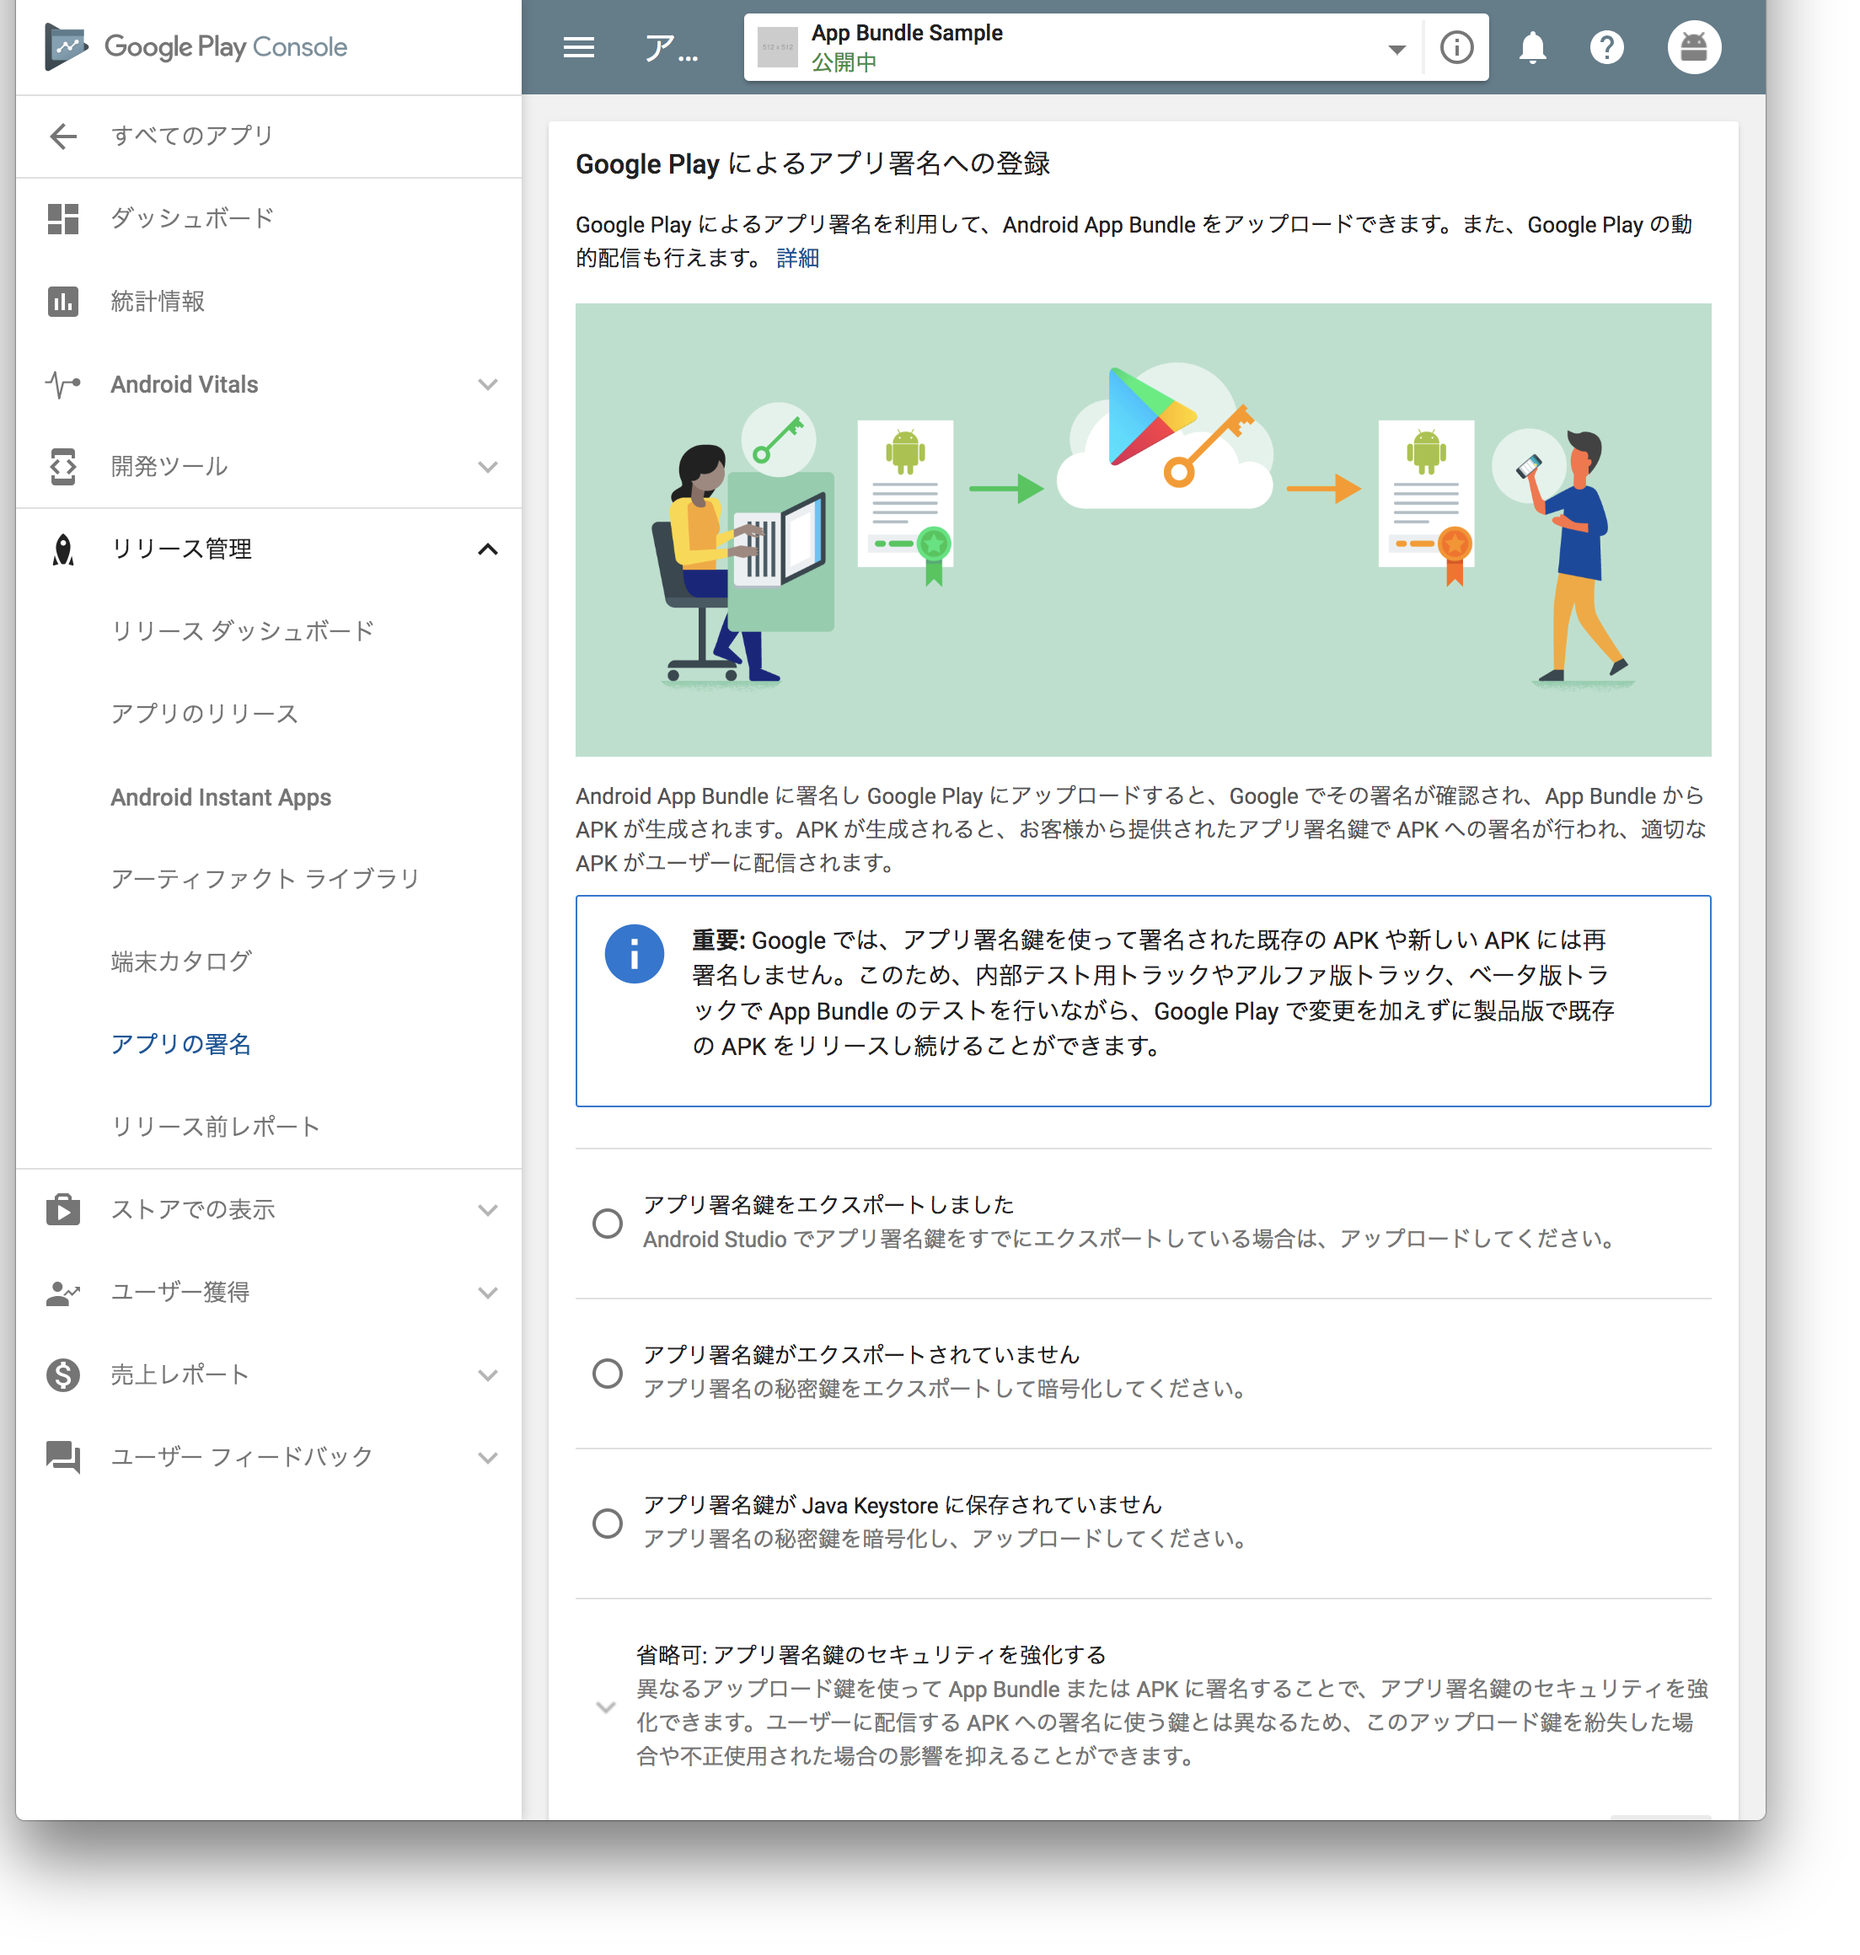
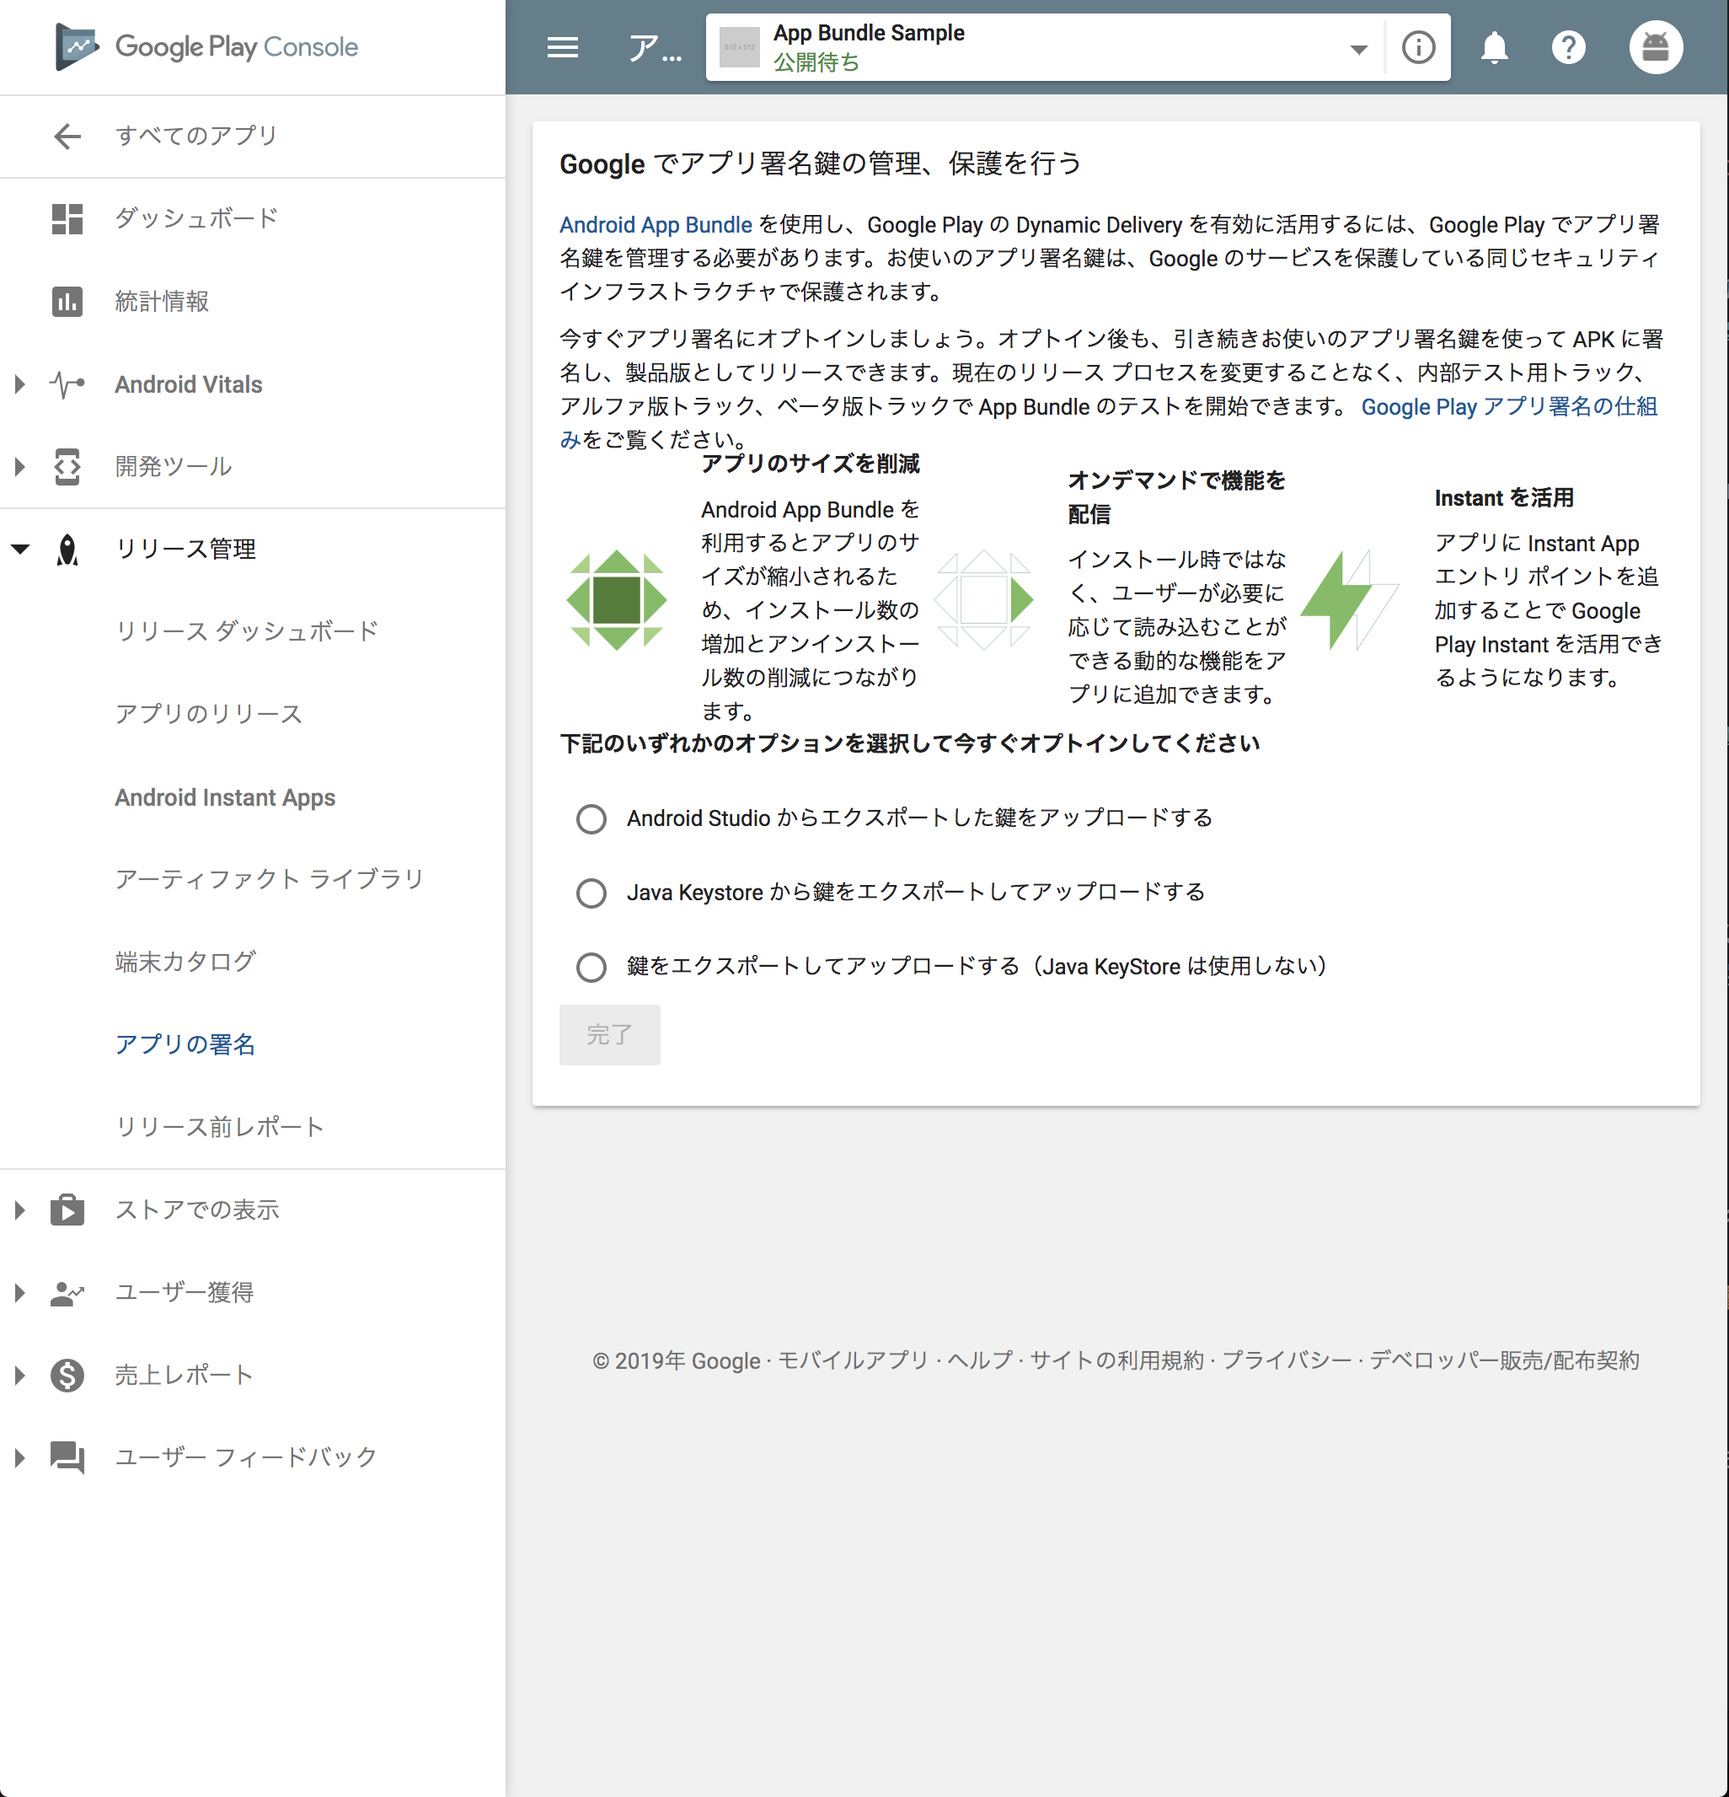
App Signing を有効にする手順を更新

diff --git a/App Bundle/upload_flow.md b/App Bundle/upload_flow.md
@@ -26,7 +26,8 @@ https://support.google.com/googleplay/android-developer/answer/7384423
 ![](./screenshot/new_application/flow5.png)
 1. 「Google Play アプリ署名」で「次へ」を選択し、Google App Signing を有効にする
 ![](./screenshot/new_application/flow6.png)
-  * Google Play App Signing が有効化されている他のアプリと同じ署名ファイル利用する場合は、「署名鍵の再利用」から選択することもできます
+  * Google Play App Signing が有効化されている他のアプリと同じ署名ファイルを選択したり、リリース用の署名ファイルを指定することができます。デフォルトだと Google Play が生成した署名ファイルが利用されます。
+  ![](./screenshot/new_application/flow7.png)
 1. 「追加する Android App Bundle と APK」で、**アップロード用の署名ファイルで** 生成した、`*.aab`　を選択する
 1. 「リリース名」、「このリリースの新機能」などに適切な内容を設定し、「保存」を選択
 ![](./screenshot/new_application/flow8.png)
@@ -47,16 +48,18 @@ https://support.google.com/googleplay/android-developer/answer/7384423
 1. アプリを選択し、「リリース管理」->「アプリの署名」を選択する
 ![](./screenshot/exsisting_application/flow3.png)
   * 利用規約が表示されたら同意する
-1. 「アプリ署名鍵がエクスポートされていません」を選択する
+1. 「Java Keystoreから鍵をエクスポートしてアップロードする」を選択する
   * 「PEPK ツール」をタップし、ツールをダウンロードする
   * ツールを利用し、今までリリースに利用していた署名ファイルから、秘密鍵のエクスポートと暗号化を行う
   * 「アプリ署名の秘密鍵」から秘密鍵を選択する
   * 「アップロード公開鍵の証明書」からアップロード鍵の証明書をアップロードする
   ![](./screenshot/exsisting_application/flow4.png)
 1. 「省略可: アプリ署名鍵のセキュリティを強化する」を選択する
+  * **この手順を省略すると、リリース用とアップロード用の署名ファイルが同じになります**
   * 記載の方法で、アップロード用の署名ファイルから PEM ファイルをエクスポートする
   * 「アップロード公開鍵の証明書」から、エクポートした PEM ファイルを選択する
-1. 「登録」ボタンをタップする
+  ![](./screenshot/exsisting_application/flow5.png)
+1. 「完了」ボタンをタップする
 1. 成功すると、以下のような画面が表示されます
 ![](./screenshot/exsisting_application/flow7.png)
 
